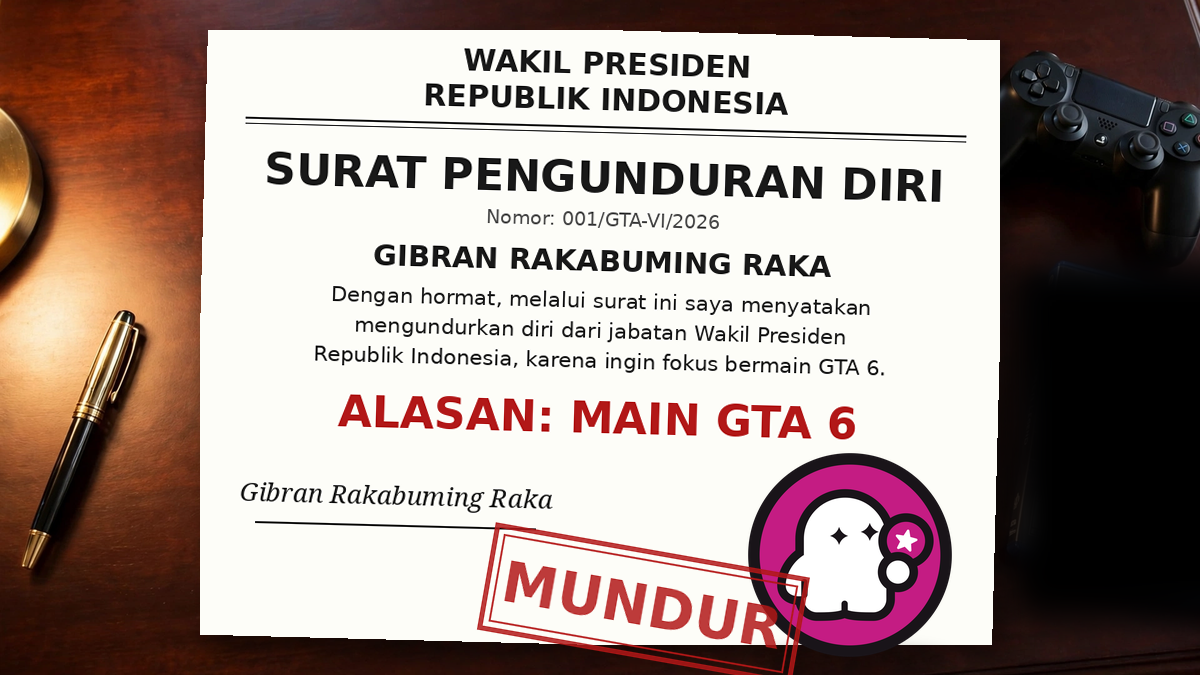
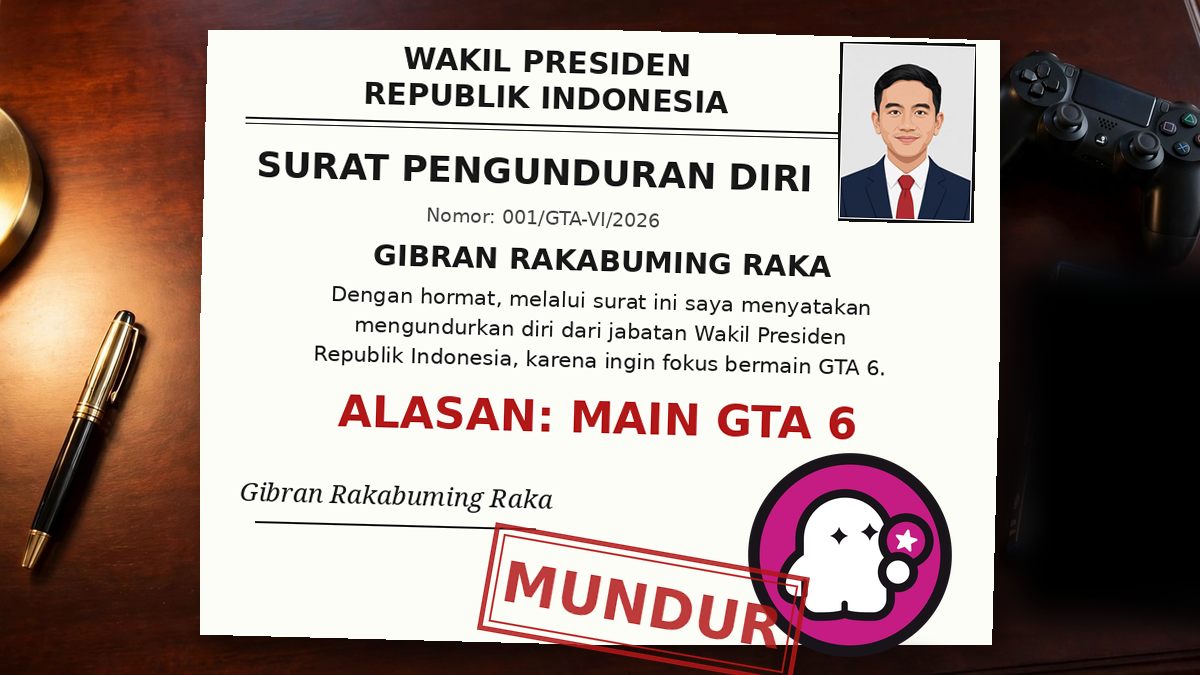
gta6-meme-x-01: add Gibran portrait to the resignation meme
- meme-gibran.png: flat cartoon portrait of Gibran as the letter's
  pas foto, top right with black frame; title reflowed so the photo
  covers nothing (title was clipped once, fixed)
- compose-gibran.py: portrait crop 3:4 + frame + reflowed header
- README: portrait described, no longer claims no face is shown

Changed region(s): [[0.2158, 0.0622, 0.8325, 0.3422]]

diff --git a/compose-gibran.py b/compose-gibran.py
@@ -19,6 +19,7 @@ SERIF_ITALIC = "/usr/share/fonts/truetype/noto/NotoSerif-Italic.ttf"
 
 SCENE = Path.home() / "workspace/makefun/gta6-meme-x-01-work/scenes-gibran/media-generation-gibran-desk-v1-0-8c0f2c78-beac-42f2-92bc-2f55202da57e.png"
 MARK = Path.home() / "workspace/makefun/gta6-meme-x-01-press/mark-1024.png"
+PORTRAIT = Path.home() / "workspace/makefun/gta6-meme-x-01-work/scenes-gibran/media-generation-gibran-portrait-0-45a27a4a-9af1-49b0-a8a0-c751c061ef30.png"
 OUT = Path(__file__).resolve().parent / "meme-gibran.png"
 
 INK = (25, 25, 25, 255)
@@ -40,15 +41,15 @@ def draw_letter():
     paper = Image.new("RGBA", (pw, ph), (253, 253, 248, 255))
     d = ImageDraw.Draw(paper)
 
-    # Letterhead
-    centered(d, pw // 2, 16, "WAKIL PRESIDEN", font(BOLD, 30), INK)
-    centered(d, pw // 2, 52, "REPUBLIK INDONESIA", font(BOLD, 30), INK)
+    # Letterhead (centred on the text column; the pas foto sits right)
+    centered(d, 340, 16, "WAKIL PRESIDEN", font(BOLD, 30), INK)
+    centered(d, 340, 52, "REPUBLIK INDONESIA", font(BOLD, 30), INK)
     d.line([(40, 96), (pw - 40, 96)], fill=INK, width=2)
     d.line([(40, 102), (pw - 40, 102)], fill=INK, width=1)
 
     # Title (joke carrier 1)
-    centered(d, pw // 2, 122, "SURAT PENGUNDURAN DIRI", font(BOLD, 44), INK)
-    centered(d, pw // 2, 178, "Nomor: 001/GTA-VI/2026", font(REG, 19), (70, 70, 70, 255))
+    centered(d, 330, 122, "SURAT PENGUNDURAN DIRI", font(BOLD, 36), INK)
+    centered(d, 340, 178, "Nomor: 001/GTA-VI/2026", font(REG, 19), (70, 70, 70, 255))
 
     # Addressee + name
     centered(d, pw // 2, 214, "GIBRAN RAKABUMING RAKA", font(BOLD, 29), INK)
@@ -117,6 +118,20 @@ def main():
     img.alpha_composite(shadow.filter(ImageFilter.GaussianBlur(8)))
     letter = draw_letter().rotate(-1.5, expand=False, resample=Image.BICUBIC)
     img.alpha_composite(letter, (200, 30))
+
+    # Gibran's picture: a flat cartoon portrait as the letter's pas foto,
+    # top right, framed in black like an official document photo.
+    photo = Image.open(PORTRAIT).convert("RGB")
+    pw2, ph2 = photo.size
+    crop_w = int(ph2 * 3 / 4)
+    left = (pw2 - crop_w) // 2
+    photo = photo.crop((left, 0, left + crop_w, ph2)).resize((130, 173), Image.LANCZOS)
+    framed = Image.new("RGBA", (138, 181), (255, 255, 255, 255))
+    framed.paste(photo, (4, 4))
+    fd = ImageDraw.Draw(framed)
+    fd.rectangle([0, 0, 137, 180], outline=(20, 20, 20, 255), width=3)
+    framed = framed.rotate(-1.5, expand=False, resample=Image.BICUBIC)
+    img.alpha_composite(framed, (838, 42))
 
     # The make.fun ghost as the letter's official seal, big, lower right.
     # Kept below the ALASAN line so it never covers the "GTA 6".

diff --git a/README.md b/README.md
@@ -47,9 +47,10 @@ is the format itself — the most formal document imaginable, used for
 the least formal reason.
 
 The make.fun ghost is the letter's official seal, big at the lower
-right, and a red MUNDUR stamp sits across the bottom. No face is
-shown anywhere: Gibran's identity comes from the letterhead, the
-name, and the signature. The letter was drawn crisp with Pillow in
+right, and a red MUNDUR stamp sits across the bottom. Gibran appears
+as a flat cartoon portrait — a pas foto at the top right of the
+letter, an illustration rather than a photograph — alongside the
+letterhead, the name, and the signature. The letter was drawn crisp with Pillow in
 `compose-gibran.py` over a photographed desk (controller, pen, lamp),
 so not a single word is garbled.
 
